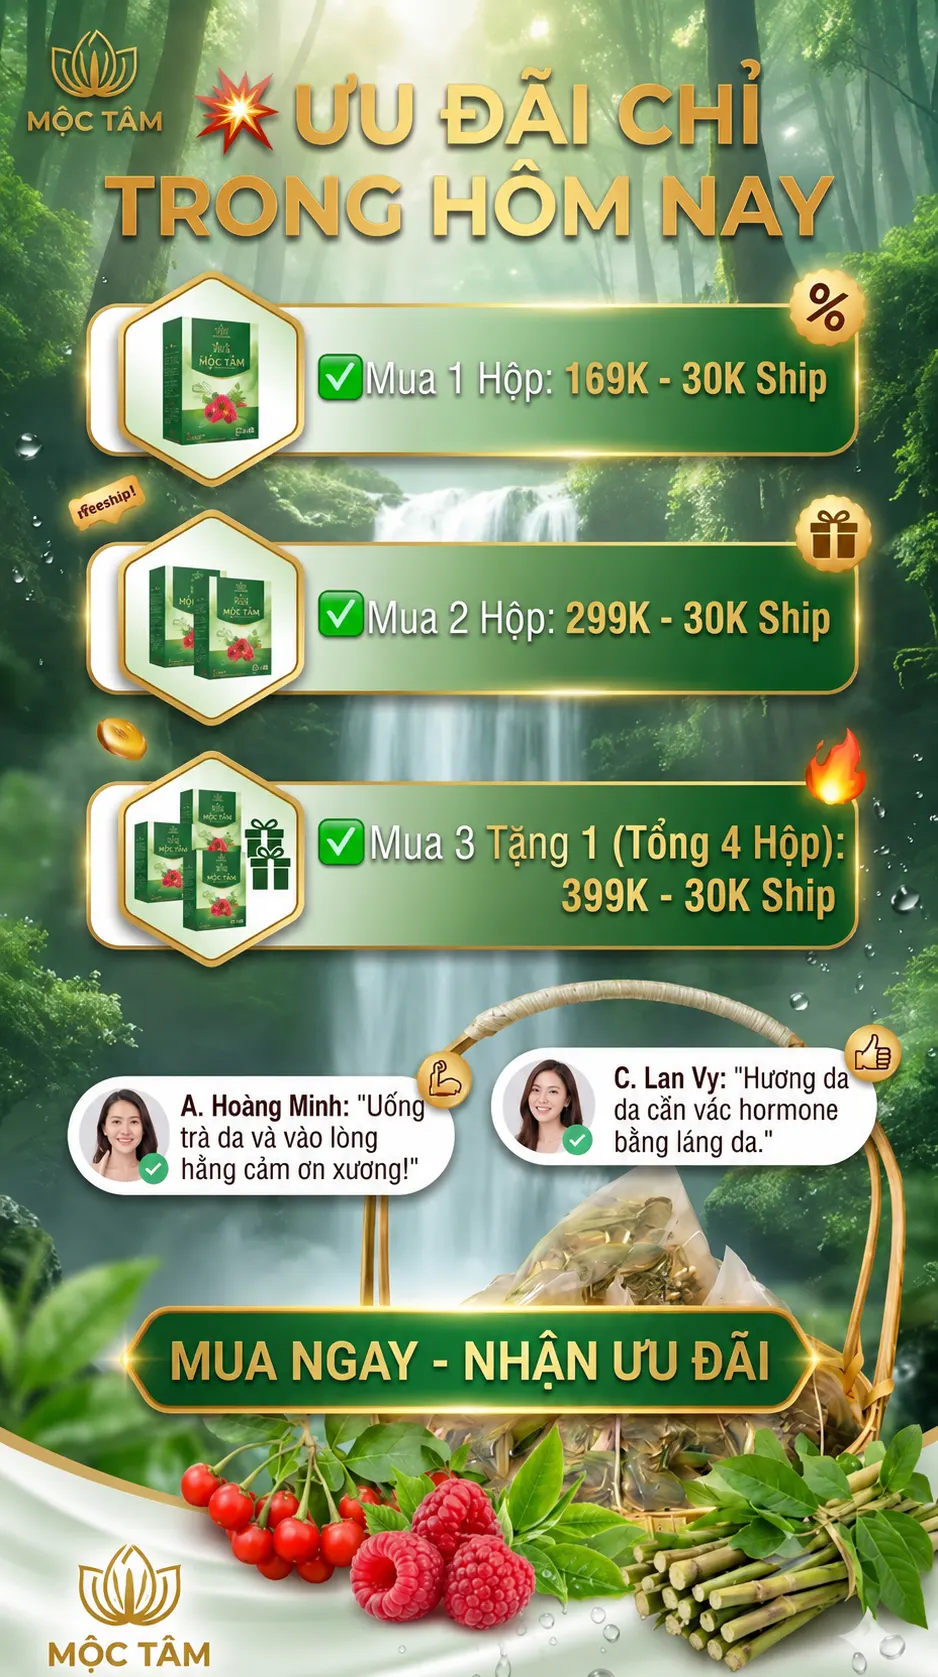
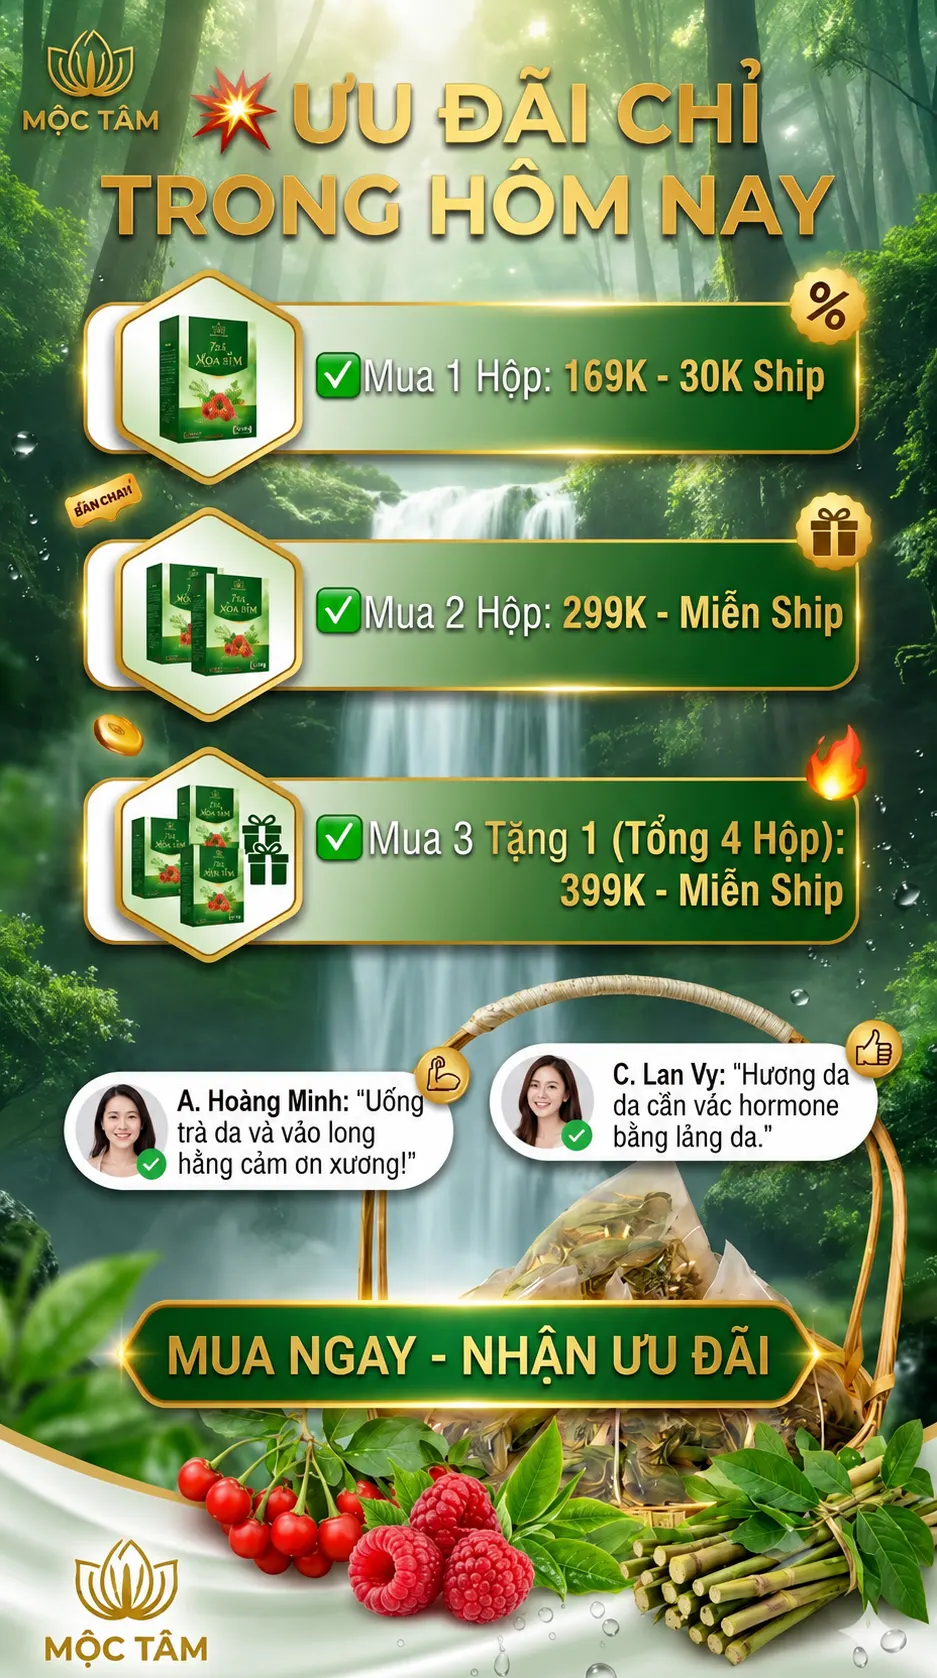
change price

diff --git a/src/app/layout.tsx b/src/app/layout.tsx
@@ -68,9 +68,12 @@ export const metadata: Metadata = {
     canonical: "/",
   },
   icons: {
-    icon: [{ url: "/images/hero.webp", type: "image/webp" }],
+    icon: [
+      { url: "/images/hero.webp", type: "image/webp" },
+      { url: "/favicon.png", type: "image/png", sizes: "48x48" },
+    ],
     shortcut: "/images/hero.webp",
-    apple: "/images/hero.webp",
+    apple: [{ url: "/images/hero.webp", type: "image/webp" }],
   },
 };
 

diff --git a/src/lib/packages.ts b/src/lib/packages.ts
@@ -12,12 +12,12 @@ export const PACKAGES: PackageOption[] = [
   },
   {
     id: "2",
-    label: "✅Mua 2 Hộp: 299K - 30K Ship",
+    label: "✅Mua 2 Hộp: 299K - Miễn Ship",
     price: 299000,
   },
   {
     id: "3",
-    label: "✅Mua 3 Tặng 1 (Tổng 4 Hộp): 399K - 30K Ship",
+    label: "✅Mua 3 Tặng 1 (Tổng 4 Hộp): 399K - Miễn Ship",
     price: 399000,
   },
 ];
